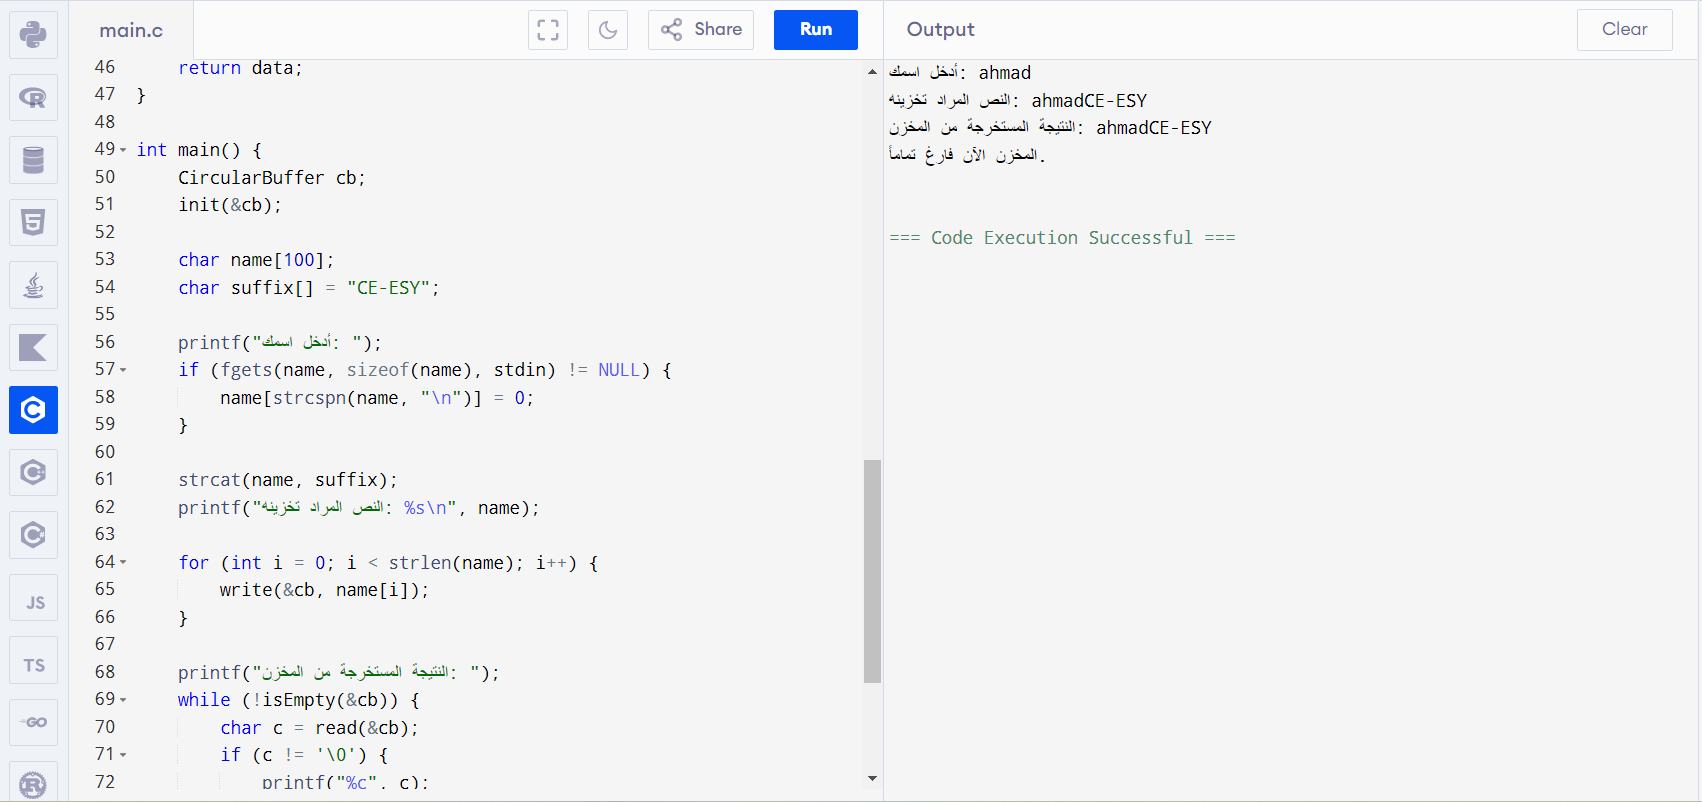
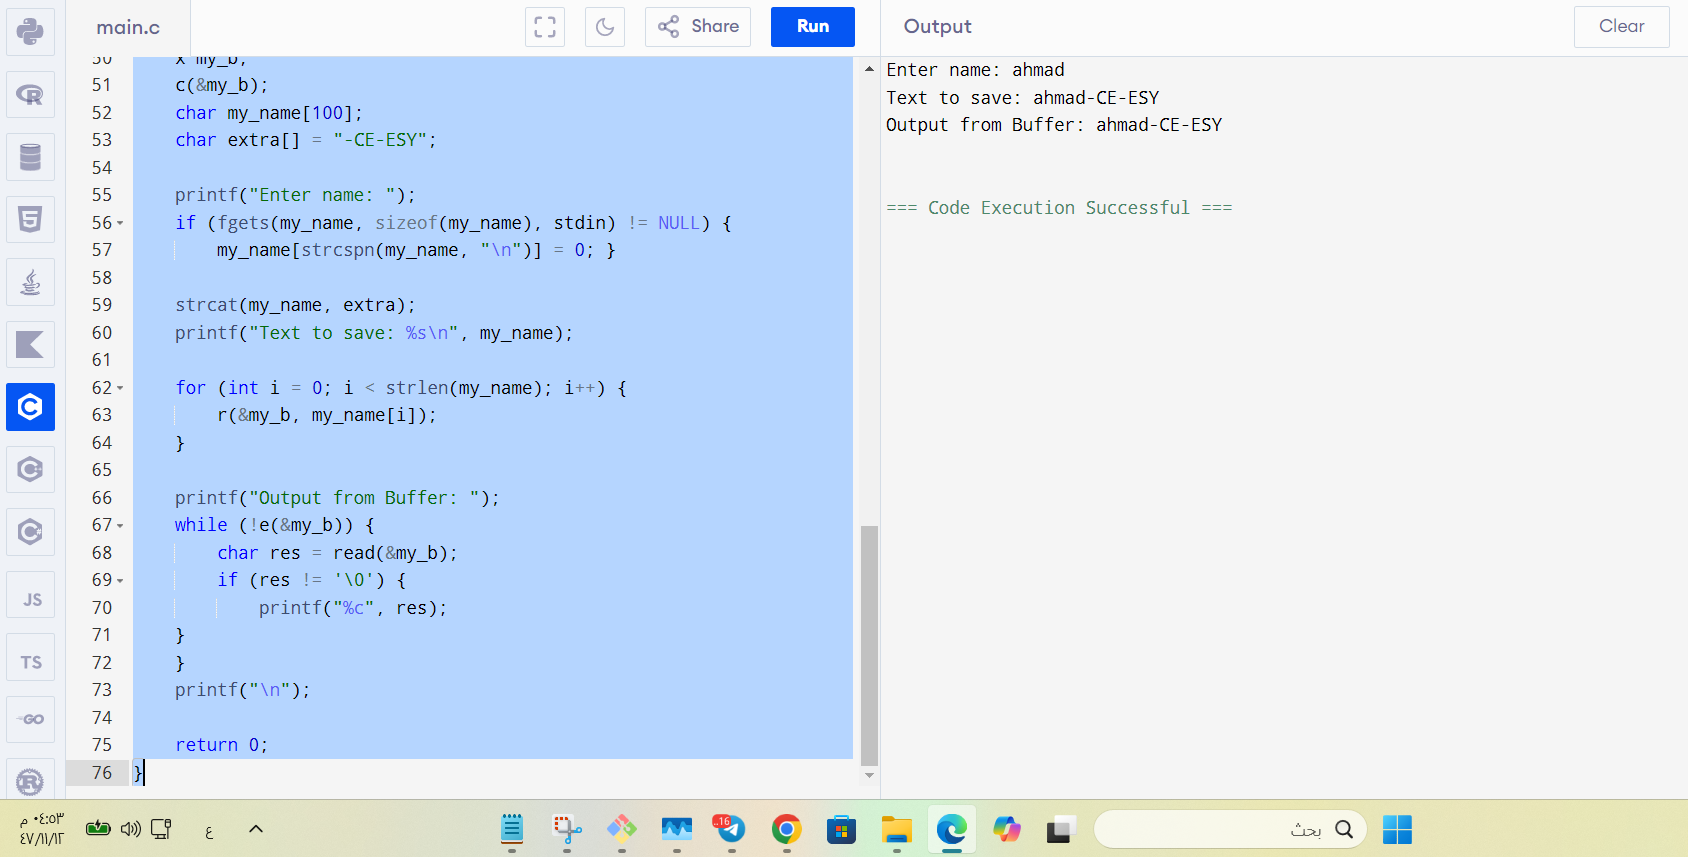
Add screenshot of the code output

diff --git a/Assignment1.c b/Assignment1.c
@@ -1,82 +1,76 @@
 #include <stdio.h>
 #include <string.h>
-#include <stdbool.h>
 
-#define SIZE 50 
+#define bf 50
 
 typedef struct {
-    char buffer[SIZE];
+    char data[bf];
     int head;
     int tail;
-    int count;
-} CircularBuffer;
+    int a;
+} x;
 
-void init(CircularBuffer *cb) {
-    cb->head = 0;
-    cb->tail = 0;
-    cb->count = 0;
+
+
+void c(x *b) {
+    b->head = 0;
+    b->tail = 0;
+    b->a = 0;
 }
 
-bool isFull(CircularBuffer *cb) {
-    return cb->count == SIZE;
+int full(x *b) {
+    return b->a == bf; }
+
+
+int e(x *b) {
+    return b->a == 0;
 }
 
-bool isEmpty(CircularBuffer *cb) {
-    return cb->count == 0;
-}
 
-void write(CircularBuffer *cb, char data) {
-    if (isFull(cb)) {
-        printf("\nBuffer Overflow\n");
-        return;
+
+void r(x *b, char val) {
+    if (!full(b)) {
+        b->data[b->tail] = val;
+        b->tail = (b->tail + 1) % bf;
+        b->a++;
+    } }
+
+char read(x *b) {
+    if (!e(b)) {
+        char val = b->data[b->head];
+        b->head = (b->head + 1) % bf;
+        b->a--;
+        return val;
     }
-    cb->buffer[cb->tail] = data;
-    cb->tail = (cb->tail + 1) % SIZE;
-    cb->count++;
+    return '\0';
 }
 
-char read(CircularBuffer *cb) {
-    if (isEmpty(cb)) {
-        printf("\nBuffer Underflow\n");
-        return '\0'; 
-    }
-    char data = cb->buffer[cb->head];
-    cb->head = (cb->head + 1) % SIZE;
-    cb->count--;
-    return data;
-}
 
 int main() {
-    CircularBuffer cb;
-    init(&cb);
+    x my_b;
+    c(&my_b);
+    char my_name[100];
+    char extra[] = "-CE-ESY";
 
-    char name[100];
-    char suffix[] = "CE-ESY";
+    printf("Enter name: ");
+    if (fgets(my_name, sizeof(my_name), stdin) != NULL) {
+        my_name[strcspn(my_name, "\n")] = 0; }
 
-    printf("أدخل اسمك: ");
-    if (fgets(name, sizeof(name), stdin) != NULL) {
-        name[strcspn(name, "\n")] = 0;
+    strcat(my_name, extra);
+    printf("Text to save: %s\n", my_name);
+
+    for (int i = 0; i < strlen(my_name); i++) {
+        r(&my_b, my_name[i]);
     }
 
-    strcat(name, suffix);
-    printf("النص المراد تخزينه: %s\n", name);
-
-    for (int i = 0; i < strlen(name); i++) {
-        write(&cb, name[i]);
+    printf("Output from Buffer: ");
+    while (!e(&my_b)) {
+        char res = read(&my_b);
+        if (res != '\0') {
+            printf("%c", res);
     }
-
-    printf("النتيجة المستخرجة من المخزن: ");
-    while (!isEmpty(&cb)) {
-        char c = read(&cb);
-        if (c != '\0') {
-            printf("%c", c);
-        }
     }
     printf("\n");
-
-    if (isEmpty(&cb)) {
-        printf("المخزن الآن فارغ تماماً.\n");
-    }
 
     return 0;
 }